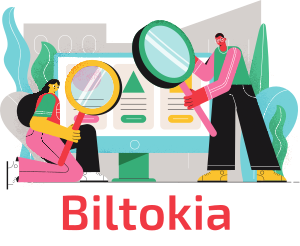
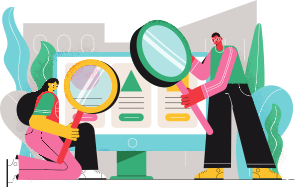
Header text in css

diff --git a/tk/static/sass/header.sass b/tk/static/sass/header.sass
@@ -5,7 +5,13 @@ header
     display: block
     margin: 2rem auto
     width: 100%
-    margin: 0 auto
+    margin: 0 0 0 0
+  h1
+    font-size: 3.5rem
+    font-align: center
+    font-weight: normal
+    margin: 0 0 1em 0
+
 ul#lang
   text-align: right
   position: absolute
